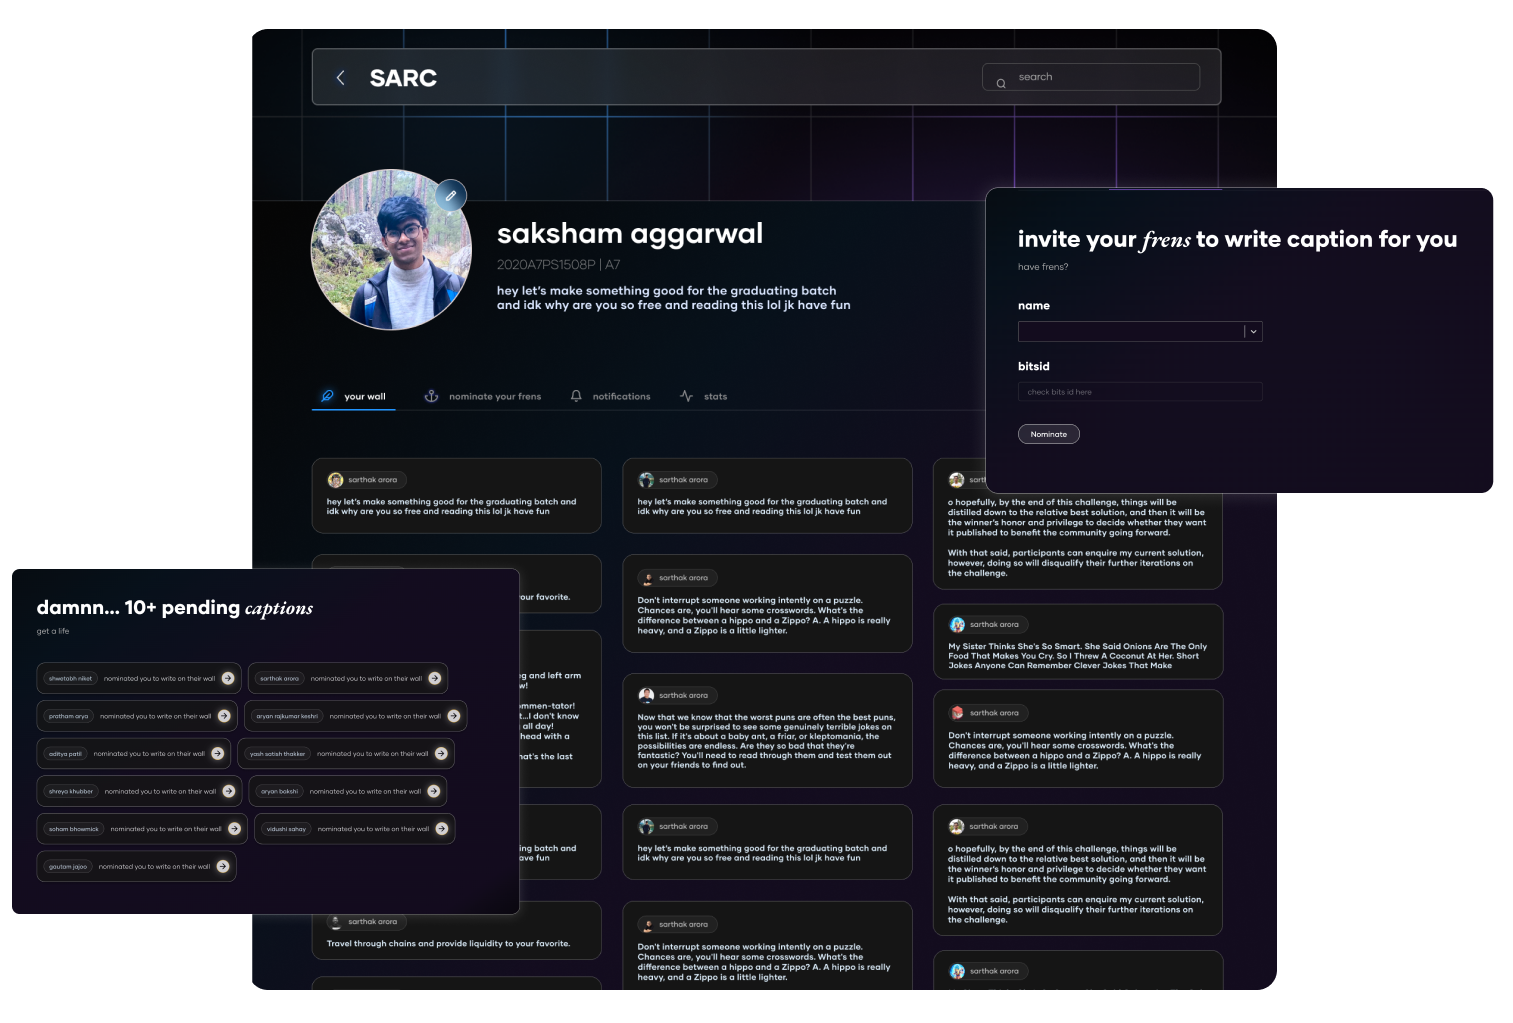
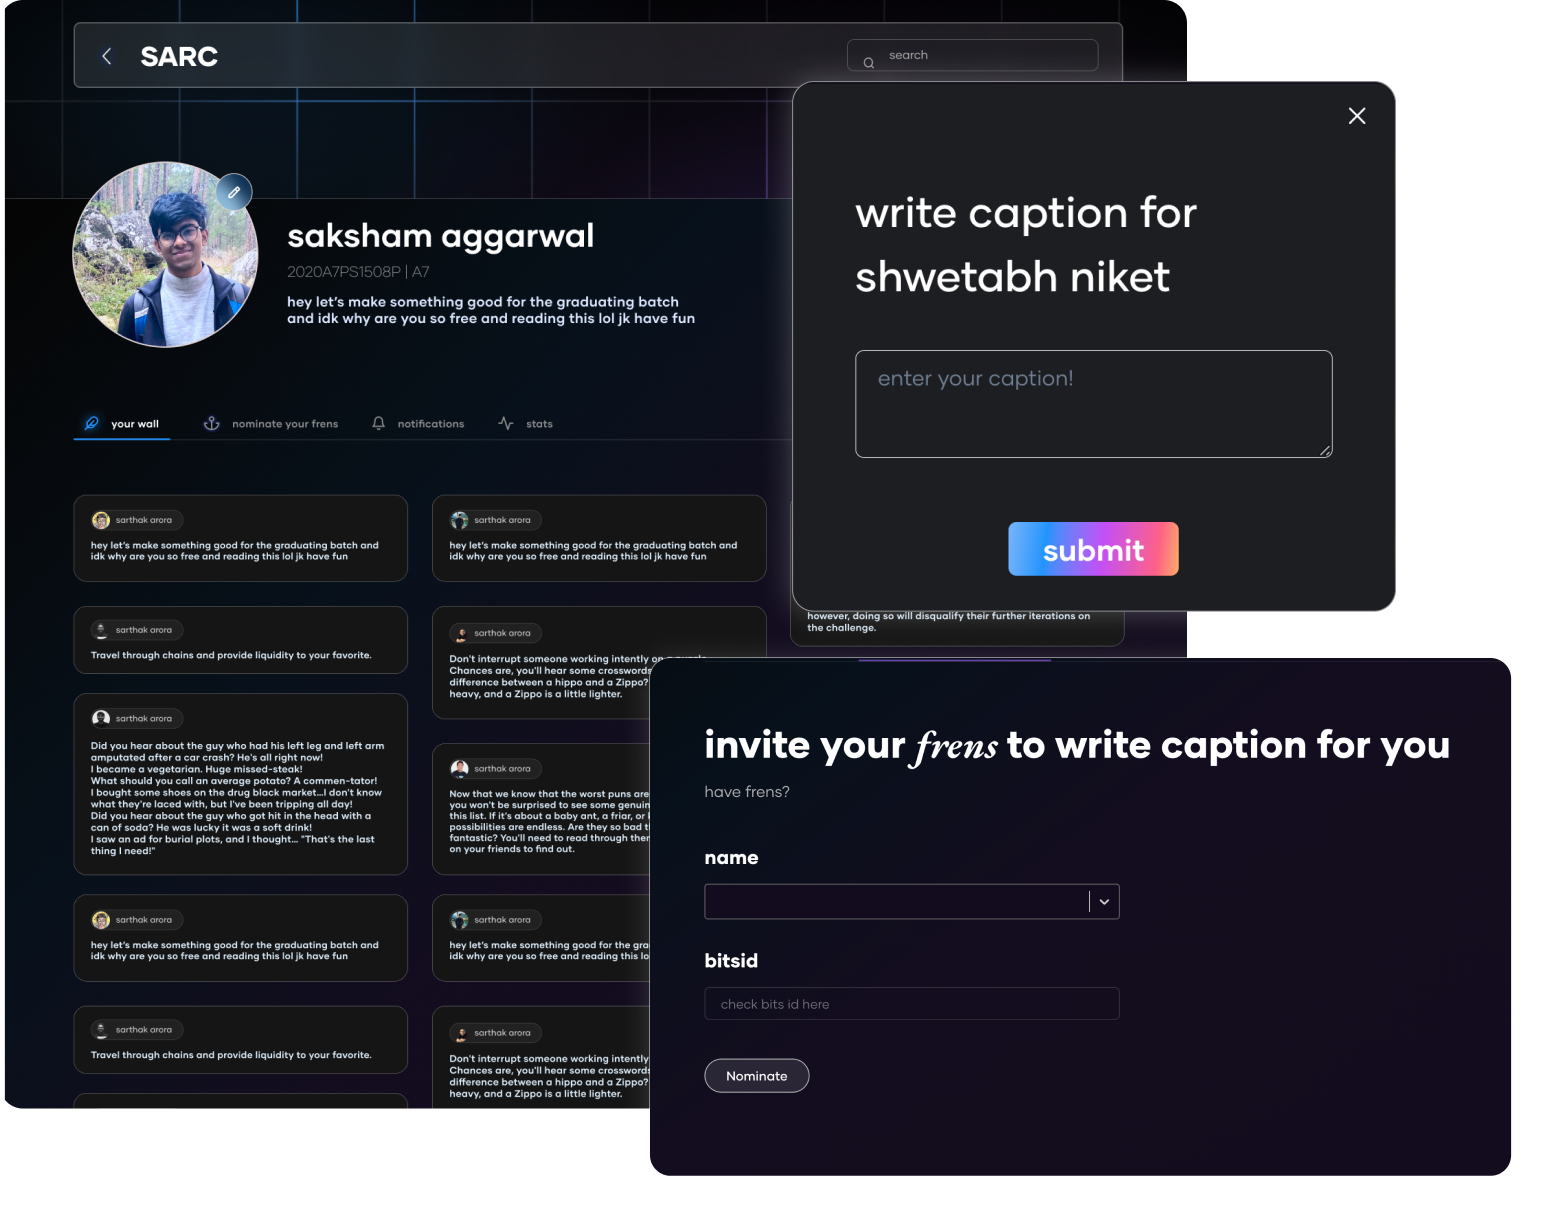
fix: working images

diff --git a/client/src/Components/Working.js b/client/src/Components/Working.js
@@ -30,13 +30,13 @@ export default function Working() {
                             on your profile, go to your wall and nominate your friends to write on your wall.
                             </Box>
                         </VStack>
-                        <Box w={isSmallerThan800 ? '80%' : '70%'} mt="2rem!important" bg={"url('../images/ss2.png')"} bgSize="cover"  h="18rem" mb="4rem !important" borderRadius="20px" margin="auto"></Box>
+                        <Box w={isSmallerThan800 ? '80%' : '70%'} mt="2rem!important" bg={"url('../images/ss2.png')"} bgSize="contain" bgRepeat="no-repeat" bgPosition="center" h="20rem" mb="4rem !important" borderRadius="20px" margin="auto"></Box>
 
 
                     </Box>
 
                     <Box w={isSmallerThan800 ? '100% !important' : '40%'} mt={isSmallerThan800 ? '1rem' : '0'} color="white" border="2px solid #D84222;" boxShadow="0px 0px 10px #D84222;" borderRadius="1rem" bgColor="rgba(216, 66, 34, 0.15);">
-                        <Box w="80%" h="18rem" mb="4rem !important" bg={"url('../images/ss3.png')"} bgSize="cover" borderRadius="20px" marginInline="auto" marginTop="2.4rem"></Box>
+                        <Box w="80%" h="18rem" mb="4rem !important" bg={"url('../images/ss3.png')"} bgSize="contain" bgRepeat="no-repeat" bgPosition="center" borderRadius="20px" marginInline="auto" marginTop="2.4rem"></Box>
                         <Box ml={isSmallerThan800 ? '2rem !important' : '3rem'} mt="4rem" bgColor="#D84222" color="white" width="3.5rem" h="3.5rem" borderRadius="50%" textAlign="center">
 
                             <Text fontWeight={700} fontSize="1.2rem" transform="translateY(44%)">3</Text>
